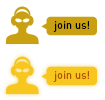
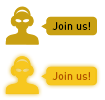
update join us

diff --git a/assets/styles/home.css b/assets/styles/home.css
@@ -287,13 +287,14 @@ html, body {
     }
 
     .social-medias .join {
-        width: 52px;
-        background-size: 52px 50px;
+        width: 70px;
+        background-size: 70px 60px;
         top: -1px;
         left: 10px;
+        background: url(../images/join-us-icon-home.png) 0 0 no-repeat;
     }
 
     .social-medias .join:hover {
-        background-position: 0 -25px;
+        background-position: 0 -30px;
     }
 
